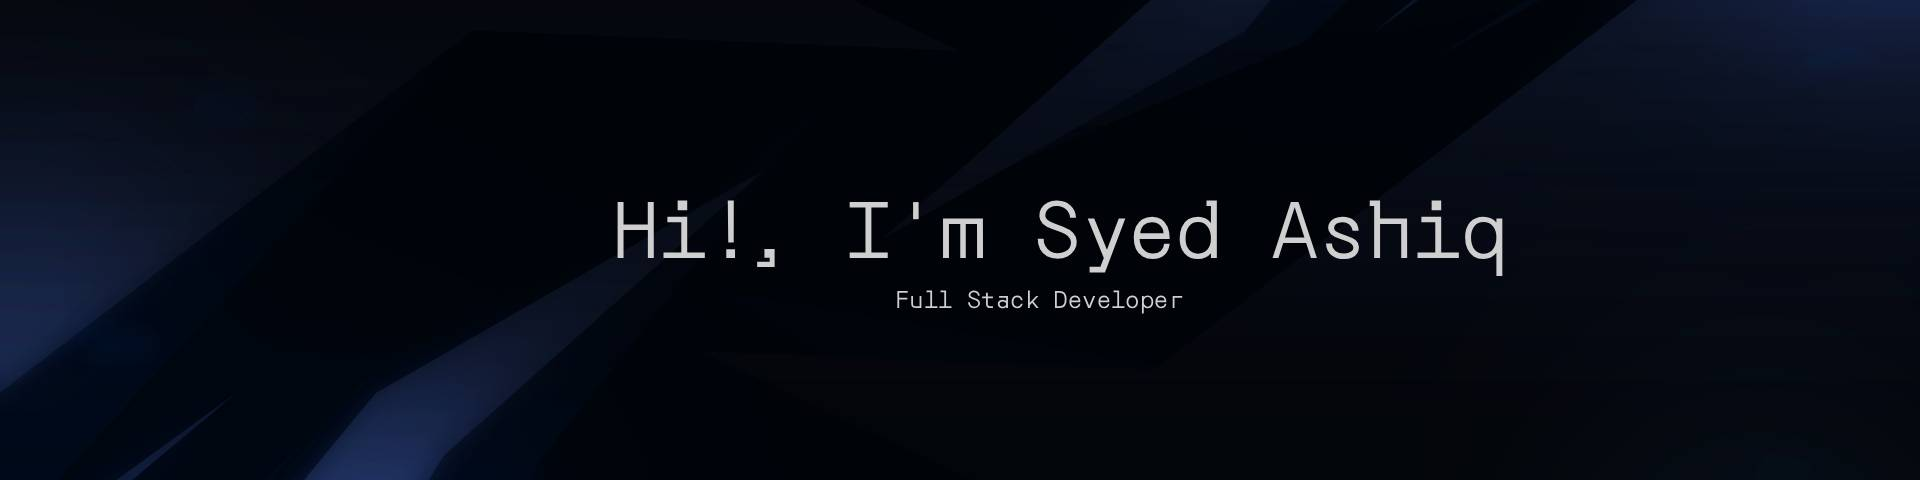
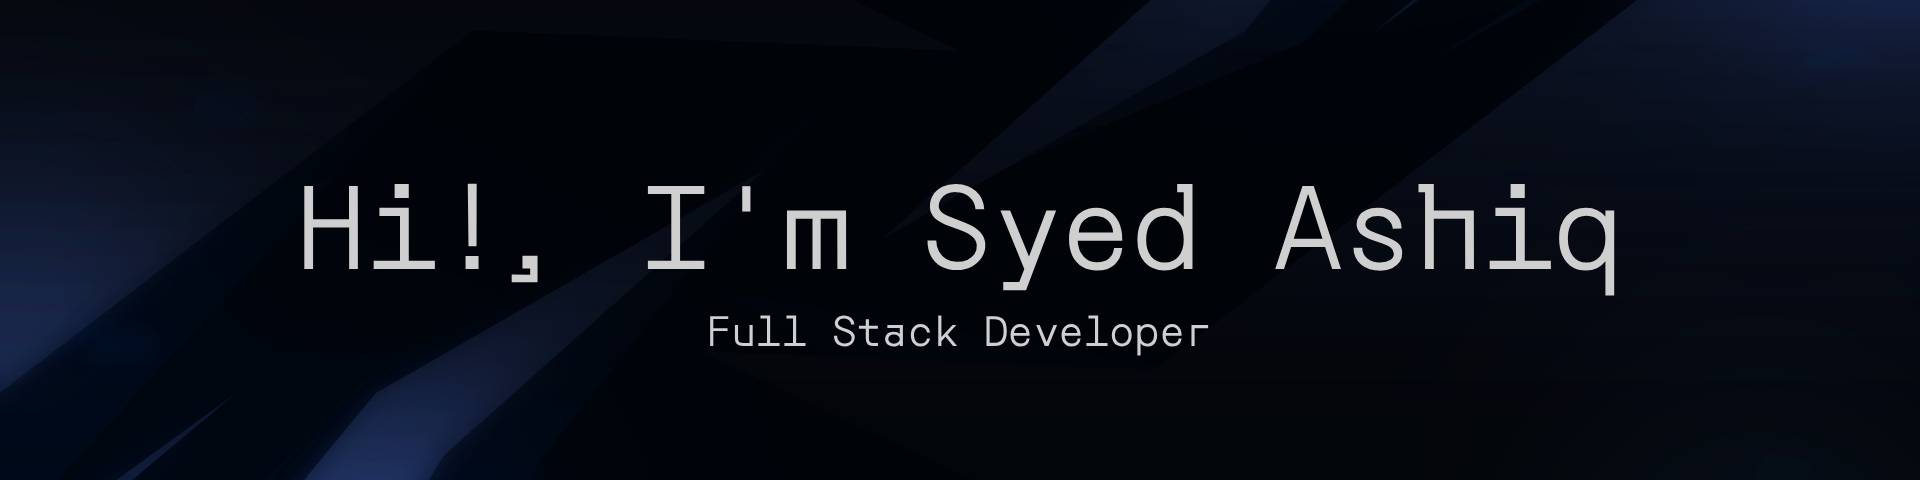
update

Changed region(s): [[0.3125, 0.375, 0.8438, 0.7188], [0.1562, 0.375, 0.2812, 0.5938]]

diff --git a/README.md b/README.md
@@ -1,4 +1,4 @@
-![Hero banner](https://raw.githubusercontent.com/Syed-Ashiq-AP/Syed-Ashiq-AP/refs/heads/main/images/banner.svg)
+![Hero banner](https://raw.githubusercontent.com/Syed-Ashiq-AP/Syed-Ashiq-AP/refs/heads/main/images/banner.jpg)
 
 # 💫 About Me:
 🔭 I’m currently working on VS Code clone<br>🌱 I’m currently learning Go Lang
